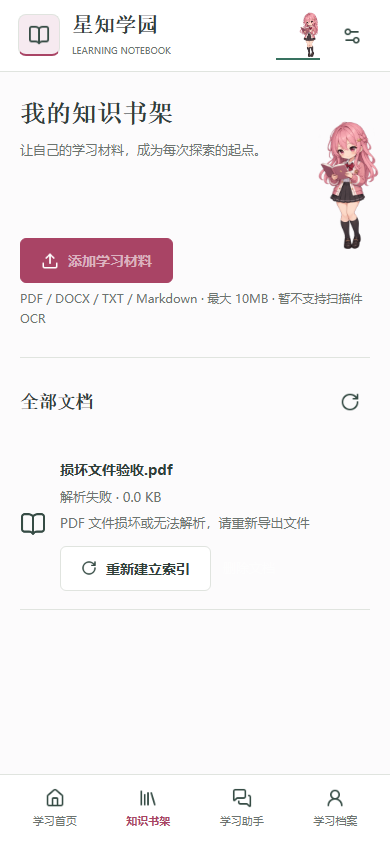
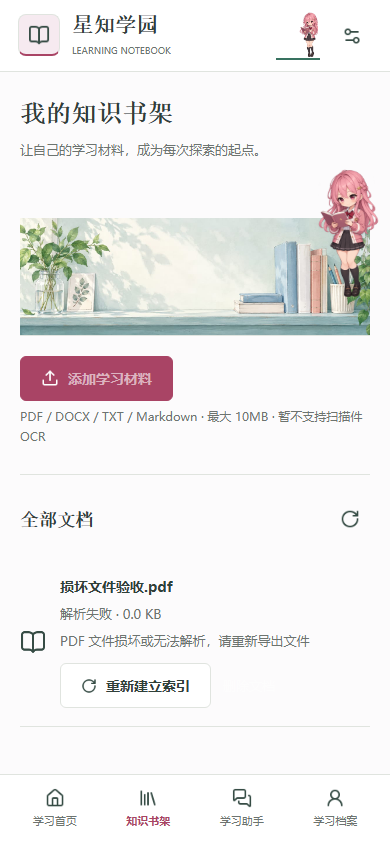
design: add original courtyard and library scene backgrounds

diff --git a/frontend/e2e/artwork.spec.ts b/frontend/e2e/artwork.spec.ts
@@ -1,0 +1,61 @@
+import { test, expect } from '@playwright/test'
+import { mkdir, writeFile } from 'node:fs/promises'
+
+test('painted scenes load with correct media types and keep forms and documents readable', async ({ page, request }) => {
+  const errors: string[] = []
+  page.on('pageerror', error => errors.push(error.message))
+  await mkdir('../docs/screenshots/h5', { recursive: true })
+  await page.goto('pages/login/index')
+  const scene = page.locator('.academy-background img')
+  await expect(scene).toBeVisible()
+  await expect.poll(() => scene.evaluate(e => (e as HTMLImageElement).naturalWidth)).toBe(1280)
+  const asset = await request.get(await scene.getAttribute('src') as string)
+  expect(asset.headers()['content-type']).toBe('image/jpeg')
+  for (const width of [320, 390, 1440]) {
+    await page.setViewportSize({ width, height: 900 })
+    expect(await page.evaluate(() => document.documentElement.scrollWidth <= innerWidth)).toBeTruthy()
+    await expect(page.getByText('进入学园', { exact: true })).toBeVisible()
+    expect(await page.locator('.login-form').evaluate(e => getComputedStyle(e).backgroundColor)).toBe('rgb(255, 255, 255)')
+    const bounds = await scene.boundingBox()
+    expect(Math.round(bounds!.width)).toBe(width)
+    await page.screenshot({ path: `../docs/screenshots/h5/29-login-${width}.png`, fullPage: true })
+  }
+  await page.setViewportSize({ width: 390, height: 844 })
+  await page.getByLabel('外观设置', { exact: true }).click()
+  await page.locator('.theme-option').filter({ hasText: '月夜观测室' }).click()
+  await page.getByLabel('关闭外观设置').click()
+  expect(await page.locator('.login-form').evaluate(e => getComputedStyle(e).backgroundColor)).toBe('rgb(41, 50, 52)')
+  await page.screenshot({ path: '../docs/screenshots/h5/30-login-night.png', fullPage: true })
+  await page.getByLabel('外观设置', { exact: true }).click()
+  await page.locator('.theme-option').filter({ hasText: '樱花学园' }).click()
+  await page.getByLabel('关闭外观设置').click()
+  const response = await request.post('api/v1/user/account/register', { data: {
+    username: `e2e_art_${Date.now()}`, password: 'Local-E2E-Only-1976', nickname: '书架验收同学',
+  } })
+  expect(response.status()).toBe(200)
+  await page.evaluate(user => {
+    localStorage.setItem('ai-learn:v1:token', JSON.stringify({ data: user.token }))
+    localStorage.setItem('ai-learn:v1:user', JSON.stringify({ data: user.user }))
+  }, (await response.json()).data)
+  await page.goto('pages/knowledge/index')
+  const shelf = page.locator('.shelf-panorama img')
+  await expect.poll(() => shelf.evaluate(e => (e as HTMLImageElement).naturalWidth)).toBe(1200)
+  for (const width of [320, 390, 1440]) {
+    await page.setViewportSize({ width, height: 900 })
+    expect(await page.evaluate(() => document.documentElement.scrollWidth <= innerWidth)).toBeTruthy()
+    await expect(page.getByText('添加学习材料', { exact: true })).toBeVisible()
+    expect(await shelf.evaluate(e => getComputedStyle(e).objectFit)).toBe('contain')
+    expect(await shelf.evaluate(e => {
+      const image = e.getBoundingClientRect(), upload = document.querySelector('.upload-band')!.getBoundingClientRect()
+      return image.bottom <= upload.top + 1
+    })).toBeTruthy()
+    await page.screenshot({ path: `../docs/screenshots/h5/31-library-${width}.png`, fullPage: true })
+  }
+  expect(errors).toEqual([])
+  await writeFile('../docs/evidence/artwork-ui.json', JSON.stringify({ recorded_at: new Date().toISOString(),
+    environment: 'Chromium + real local API + isolated MySQL', provider_calls: 0,
+    widths: [320, 390, 1440], checks: ['jpeg_mime', 'actual_decoded_dimensions', 'opaque_login_form',
+      'night_theme', 'uncropped_shelf', 'upload_visible', 'no_horizontal_overflow', 'no_page_errors'],
+    native_runtime: 'Not yet verified; separate build evidence',
+  }, null, 2) + '\n')
+})

diff --git a/frontend/src/app.scss b/frontend/src/app.scss
@@ -115,6 +115,19 @@ button:disabled { opacity: .55; cursor: default; }
 .study-window { display: flex; justify-content: center; background: var(--paper); margin: 0 0 22px; border-bottom: 1px solid var(--line); }
 .study-panorama { display: block; width: 100%; height: 220px; }
 .study-panorama img { position: static; width: 100%; height: 100%; object-fit: contain; transform: none; }
+.studio-guest { position: relative; }
+.academy-background { position: absolute; left: 0; top: 84px; width: 100%; height: calc(100% - 84px); pointer-events: none; }
+.academy-background img { position: static; width: 100%; height: 100%; object-fit: cover; object-position: center; transform: none; }
+.studio-guest .guest-layout { position: relative; z-index: 1; }
+.studio-guest .studio-main { margin: 0 auto; padding-top: 40px; max-width: 620px; }
+.studio-guest .page-heading { color: #253d32; border: 0; padding: 0; }
+.studio-guest .page-subtitle { color: #3e5b4b; }
+.studio-guest .login-form { box-sizing: border-box; background: var(--paper); border: 1px solid var(--line); padding: 22px 26px 26px; border-radius: 6px; }
+.studio-guest .login-switch { margin-top: 0; }
+.shelf-band { display: flex; justify-content: center; background: #f9fcf6; border-bottom: 1px solid var(--line); }
+.shelf-panorama { display: block; width: 100%; height: 200px; }
+.shelf-panorama img { position: static; width: 100%; height: 100%; object-fit: contain; transform: none; }
+@media (max-width: 800px) { .academy-background { top: 72px; height: calc(100% - 72px); }.studio-guest .studio-main { padding: 28px 20px 40px; }.studio-guest .login-form { padding: 18px 20px 22px; }.shelf-panorama { height: auto; aspect-ratio: 3 / 1; } }
 @media (max-width: 800px) { .study-panorama { height: auto; aspect-ratio: 3 / 1; }.study-window { margin-bottom: 20px; }.welcome-band .welcome-title { font-size: 18px; }.welcome-band .primary-button { padding: 8px 12px; }.welcome-band { gap: 12px; } }
 .review-tabs { display: grid; grid-template-columns: repeat(4, minmax(0, 1fr)); border-bottom: 1px solid var(--line); margin-bottom: 24px; }
 .studio .review-tabs .text-button { min-width: 0; padding: 12px 4px; white-space: normal; font-size: 14px; border-bottom: 2px solid transparent; }

diff --git a/frontend/src/pages/knowledge/index.tsx b/frontend/src/pages/knowledge/index.tsx
@@ -1,5 +1,5 @@
 import { useState, useRef } from 'react'
-import { View, Text, Button } from '@tarojs/components'
+import { View, Text, Button, Image } from '@tarojs/components'
 import Taro, { useDidShow, useDidHide } from '@tarojs/taro'
 import { getKnowledgeDocuments, getKnowledgeDocumentStatus, uploadKnowledgeDocument, deleteKnowledgeDocument, generateQuizAsync, getLearningTask, getCachedUser, waitForLogin, getToken, KnowledgeDocumentItem, reindexDocument, ApiError } from '../../services/api'
 import { PollControl, pollUntil } from '../../services/polling'
@@ -96,6 +96,7 @@ export default function KnowledgePage() {
     finally { lock.current = false; if (live.current) setBusy('') }
   }
   return <StudioShell active='knowledge' title='我的知识书架' subtitle='让自己的学习材料，成为每次探索的起点。'>
+    <View className='shelf-band'><Image className='shelf-panorama' src={require('../../assets/notebook-shelf.jpg')} mode='aspectFit' aria-hidden /></View>
     <View className='upload-band'><Button className='primary-button' disabled={!!busy} onClick={upload}><Icon name='upload' size={18} />{busy || '添加学习材料'}</Button><Text className='field-hint'>PDF / DOCX / TXT / Markdown · 最大 10MB · 暂不支持扫描件 OCR</Text></View>
     {error && <Notice message={error} retry={load} />}
     {notice && <Text className='field-hint'>{notice}</Text>}

diff --git a/frontend/src/components/StudioShell.tsx b/frontend/src/components/StudioShell.tsx
@@ -31,7 +31,8 @@ export function StudioShell({ children, active, title, subtitle, guest = false, 
     if (reserved) { settings.update({ companionFolded: expanded }); setExpanded(value => !value) }
     else settings.update({ companionFolded: !settings.companionFolded })
   }
-  return <View className={`studio theme-${settings.theme} ${settings.reducedMotion ? 'reduced-motion' : ''} ${floating && floatingSafe && !guest ? 'has-companion' : ''}`}>
+  return <View className={`studio theme-${settings.theme} ${guest ? 'studio-guest' : ''} ${settings.reducedMotion ? 'reduced-motion' : ''} ${floating && floatingSafe && !guest ? 'has-companion' : ''}`}>
+    {guest && <Image className='academy-background' src={require('../assets/academy-gate.jpg')} mode='aspectFill' aria-hidden />}
     <View className='studio-topbar'>
       <View className='studio-brand' onClick={() => navigate('/pages/index/index')}>
         <View className='brand-mark'><Icon name='book' size={22} /></View>

diff --git a/docs/assets-attribution.md b/docs/assets-attribution.md
@@ -22,6 +22,32 @@ reading on the right; hand-painted 2D animated-film background, irregular ink li
 and watercolor, gentle daylight, green/blue/white with restrained coral; no text, logos, watermark,
 existing characters or UI mockup. Generated art is never placed in the screenshots directory.
 
+## Academy Courtyard And Notebook Shelf
+
+Generated with built-in ImageGen on 2026-09-15, using original scene descriptions and no reference
+project assets or existing film characters. These are decorative images, not runtime screenshots.
+Distribution follows the repository license to the extent rights in generated output permit;
+copyright eligibility and exclusivity are not guaranteed.
+
+| Asset | Export | Placement |
+| --- | --- | --- |
+| `frontend/src/assets/academy-gate.jpg` | 1280x853, 208061 bytes | Full-width login background; centered aspect-fill crop on portrait phones |
+| `frontend/src/assets/notebook-shelf.jpg` | 1200x400, 53283 bytes | Knowledge-library band, aspect-fit without cropping; 3:1 mobile, at most 200px tall on desktop |
+
+Courtyard prompt: original 3:2 school courtyard, central gate and path, pale sky above, white school
+building, leafy tree at left and pink flowers at edges; no people, lettering or logos; matte gouache
+and watercolor with irregular ink, green/blue/white and restrained coral. Keep central architecture
+legible in a portrait crop, with open sky for a heading.
+
+Shelf prompt: original 3:1 study-notebook panorama, pastel blue/white/coral books at right, pressed
+leaf page and small plant at left, pencil cup, mostly plain pale green/white center; hand-painted
+matte gouache, objects entirely within the shallow band; no characters, text, logos, glow or UI.
+
+Both selected outputs were resized without cropping and JPEG-compressed with the pinned `sharp`
+dependency (quality 78 and 80). UI uses local Taro `Image` assets rather than remote media or
+miniapp-incompatible local CSS URLs. Actual runtime captures are stored separately under
+`docs/screenshots/h5/`; no weapp runtime screenshot is claimed from these assets.
+
 ## Interface Icons
 
 [Lucide](https://lucide.dev/license), ISC license. PNGs are generated from `lucide-static` SVGs for the shared Taro interface. The package version is pinned by `frontend/package-lock.json`. Original SVG geometry is retained; raster export allows a consistent miniapp `Image` implementation.

diff --git a/docs/implementation-tracker.md b/docs/implementation-tracker.md
@@ -341,6 +341,23 @@ algorithm-experiment, native-testing, documentation or coexistence requirements.
 
 ## Continuing Decisions
 
+### Page Artwork Loop (2026-09-15)
+
+- Added two original painted scenes after the owner's background-art request: a 1280x853 courtyard
+  behind the login screen and a 1200x400 notebook shelf inside an unframed library band. Mobile
+  login uses a deliberate central crop; the shelf always preserves the entire source composition.
+  The form is opaque in both light and night themes. No customer/reference-project assets were used.
+- Added a failing browser acceptance test before integration, then verified decoded image sizes,
+  JPEG media type, login form backgrounds, visible upload control, nonoverlap and horizontal bounds
+  at widths 320, 390 and 1440. Three relevant browser scenarios passed in 12.6 s, including a real
+  file upload and persisted parse error. TypeScript and 11 frontend units passed.
+- Sequential H5/weapp builds and base-path checks passed: H5 entry gzip 120253 bytes; native main
+  package 964840 bytes. Native IDE execution is still unverified. Images added 261344 source bytes;
+  these are not remotely loaded and contain no credentials. Preview now serves JPEG/WebP MIME types.
+- Evidence: `evidence/artwork-ui.json`, `evidence/artwork-build-size.json`, real screenshots 29-31
+  under `screenshots/h5/`. Prompts, export dimensions and distribution caveats are documented in
+  `assets-attribution.md`. No paid backend calls or production changes were needed for this loop.
+
 ### Named Error Notebooks (2026-09-15)
 
 - Migration 10 adds owned notebooks and memberships without changing original attempts or review
